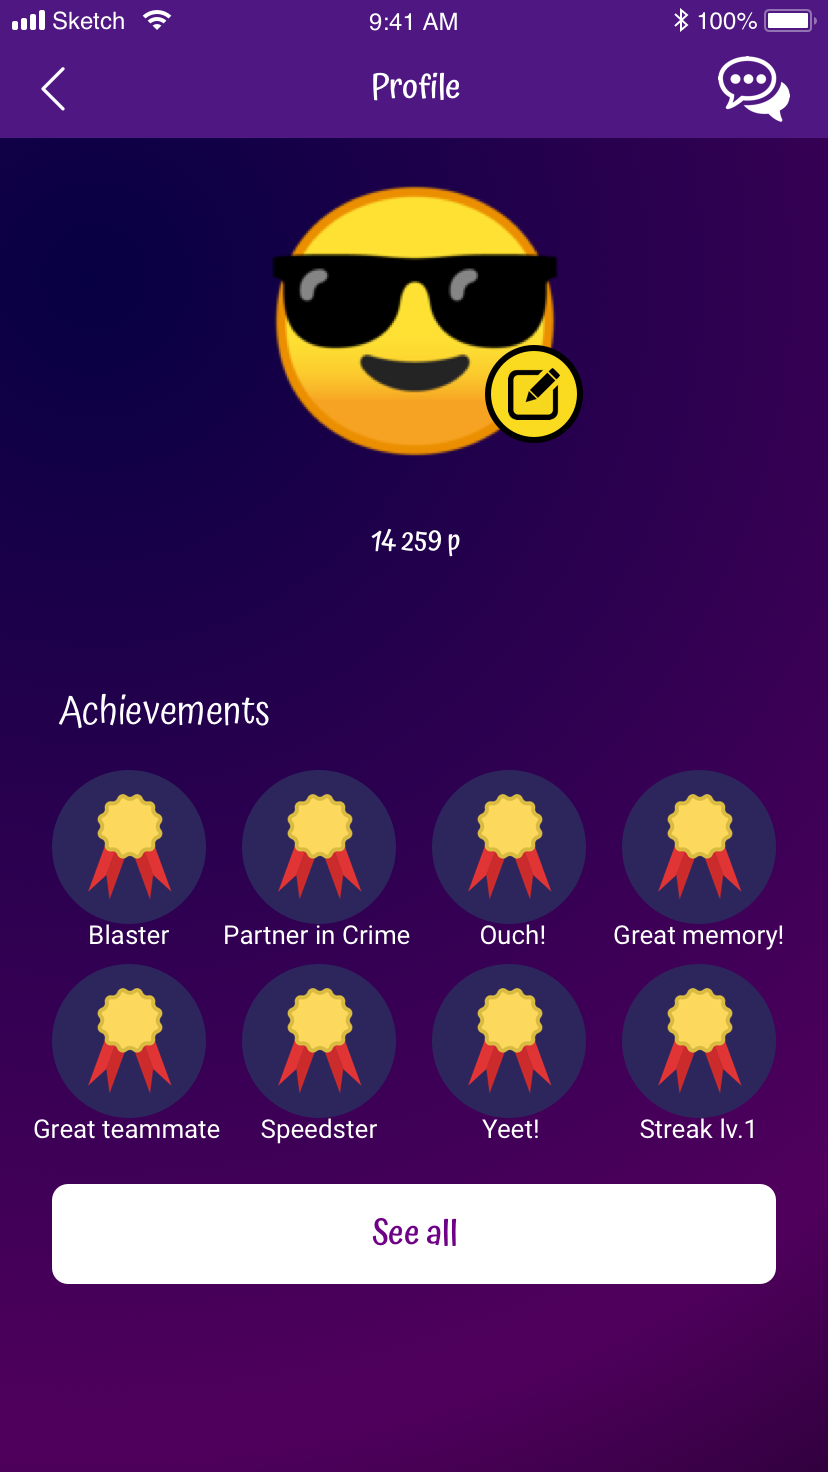
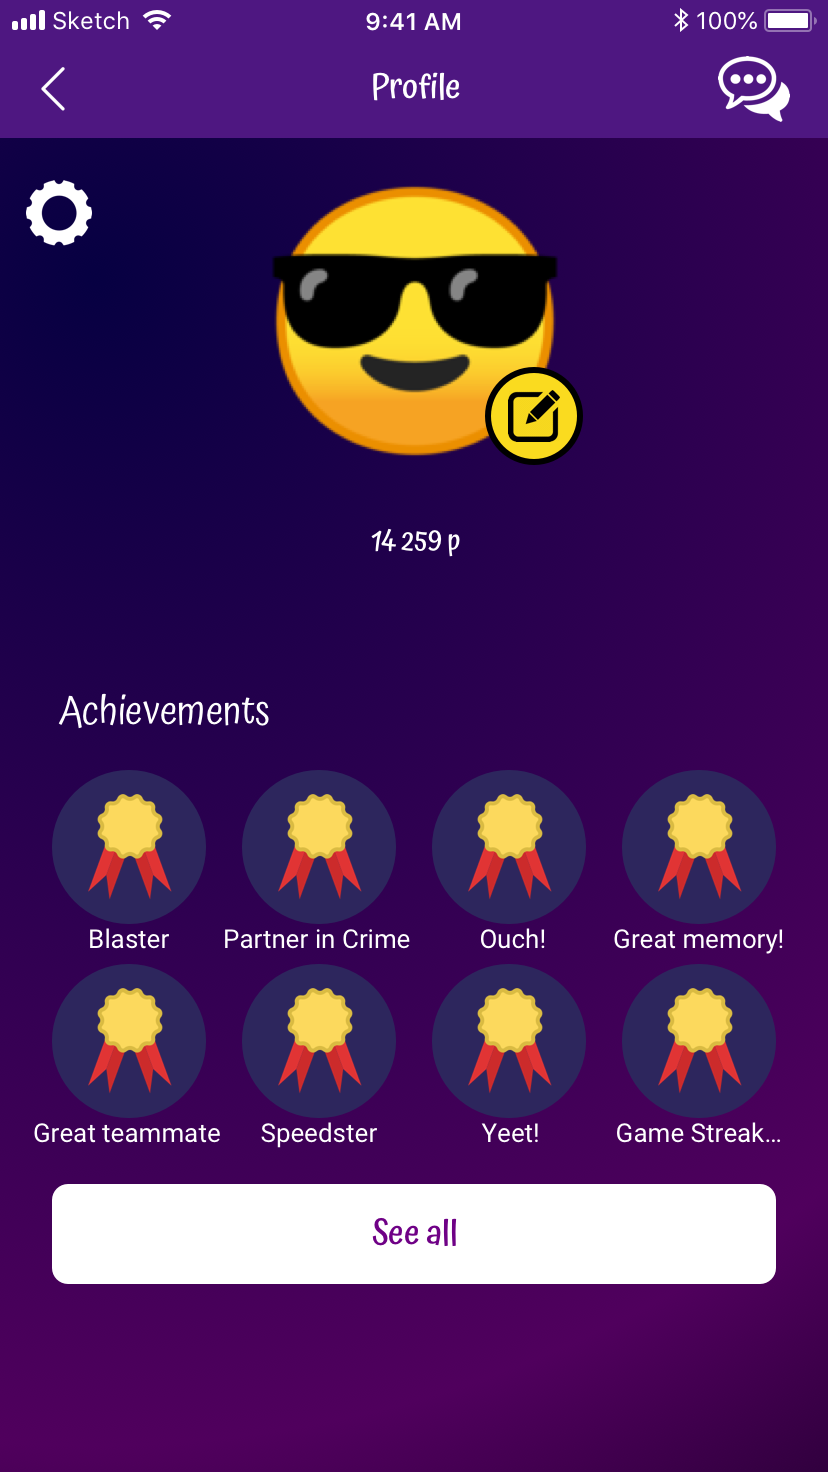
login states fixed, prototype works well if refreshed, minor fixes left

diff --git a/client/main.js b/client/main.js
@@ -3,6 +3,17 @@ import { ReactiveVar } from 'meteor/reactive-var';
 
 import './main.html';
 
+FlowRouter.triggers.enter([function(context, redirect){
+  if(!Meteor.userId()){
+    console.log('utloggad');
+    FlowRouter.go('login');
+    console.log('gick till login');
+  }
+  else {
+    console.log('inloggad');
+  }
+}]);
+
 FlowRouter.route('/', {
   name: 'hej',
   action(){
@@ -17,6 +28,13 @@ FlowRouter.route('/joinGame', {
   }
 });
 
+FlowRouter.route('/settings', {
+  name: 'settings',
+  action(){
+    BlazeLayout.render('iphone', {main: 'settings'});
+  }
+});
+
 FlowRouter.route('/noGamesAvailable', {
   name: 'noGamesAvailable',
   action(){
@@ -27,7 +45,13 @@ FlowRouter.route('/noGamesAvailable', {
 FlowRouter.route('/profile', {
   name: 'profile',
   action(){
-    BlazeLayout.render('iphone', {main: 'profile'});
+    if (Meteor.userId()==null) {
+      console.log('HEJ');
+      BlazeLayout.render('iphone', {main: 'login'});
+    }
+    else {
+      BlazeLayout.render('iphone', {main: 'profile'});
+    }
   }
 });
 
@@ -113,6 +137,9 @@ FlowRouter.route('/login', {
   name: 'login',
   action(){
     BlazeLayout.render('iphone', {main: 'login'});
+    if(Meteor.userId()){
+      FlowRouter.go('joinGame');
+    }
   }
 });
 

diff --git a/client/main.html b/client/main.html
@@ -53,17 +53,24 @@
 <!-- Profile screen template-->
 <template name="profile">
   <div class="profile-container">
-
-
     <img class="profile-background" src='images/profileNoName.png' usemap="#profilemap">
     <div class="profileName">{{profileName}}</div>
-
     <map name="profilemap">
       <a href="joinGame"><area id="goBack" shape="rect" coords="10,26,43,59" alt="Sun"></a>
       <a href="chatt"><area id="chatt" shape="rect" coords="356,25,394,63" alt="Sun"></a>
       <a href="achievements"><area id="seeAll" shape="rect" coords="24,592,390,645" alt="Sun"></a>
       <a href="chooseAvatar"><area id="editAvatar" shape="circle" coords="267,208,22" alt="Sun"></a>
+      <a href="settings"><area id="settings" shape="rect" coords="13,90,46,123" alt="Sun"></a>
     </map>
+  </div>
+</template>
+
+<template name="settings">
+  <div class="container">
+    <div class="link"><a href="profile"></a></div>
+  </div>
+  <div class="login2">
+    {{> loginButtons}}
   </div>
 </template>
 

diff --git a/client/main.css b/client/main.css
@@ -17,3 +17,46 @@ body {
   color: #fff;
   font-family: 'Atma', sans-serif;
 }
+
+.login{
+  display: flex;
+  align-items: center;
+  justify-content: center;
+}
+
+.login2{
+  display: flex;
+  align-items: center;
+  justify-content: center;
+}
+
+.login{
+  height: 100%;
+  width: auto;
+  background-image: url('images/empty_title.png');
+  background-size: cover;
+}
+
+.login2{
+  height: 100%;
+  width: auto;
+  /*background-image: url('images/settings.png');
+  background-size: cover;*/
+  background: url("images/settings.png") repeat scroll 0 0 transparent;
+  background-size: cover;
+   }
+    .link{
+        padding-left: 26px;
+        padding-top: 23px;
+        position: absolute;
+    }
+    .link a{
+      padding-left: 0;
+      display: block;
+      height: 48px;
+      width: 67px;
+    }
+    .container{
+    position: relative;
+    color: black;
+}
